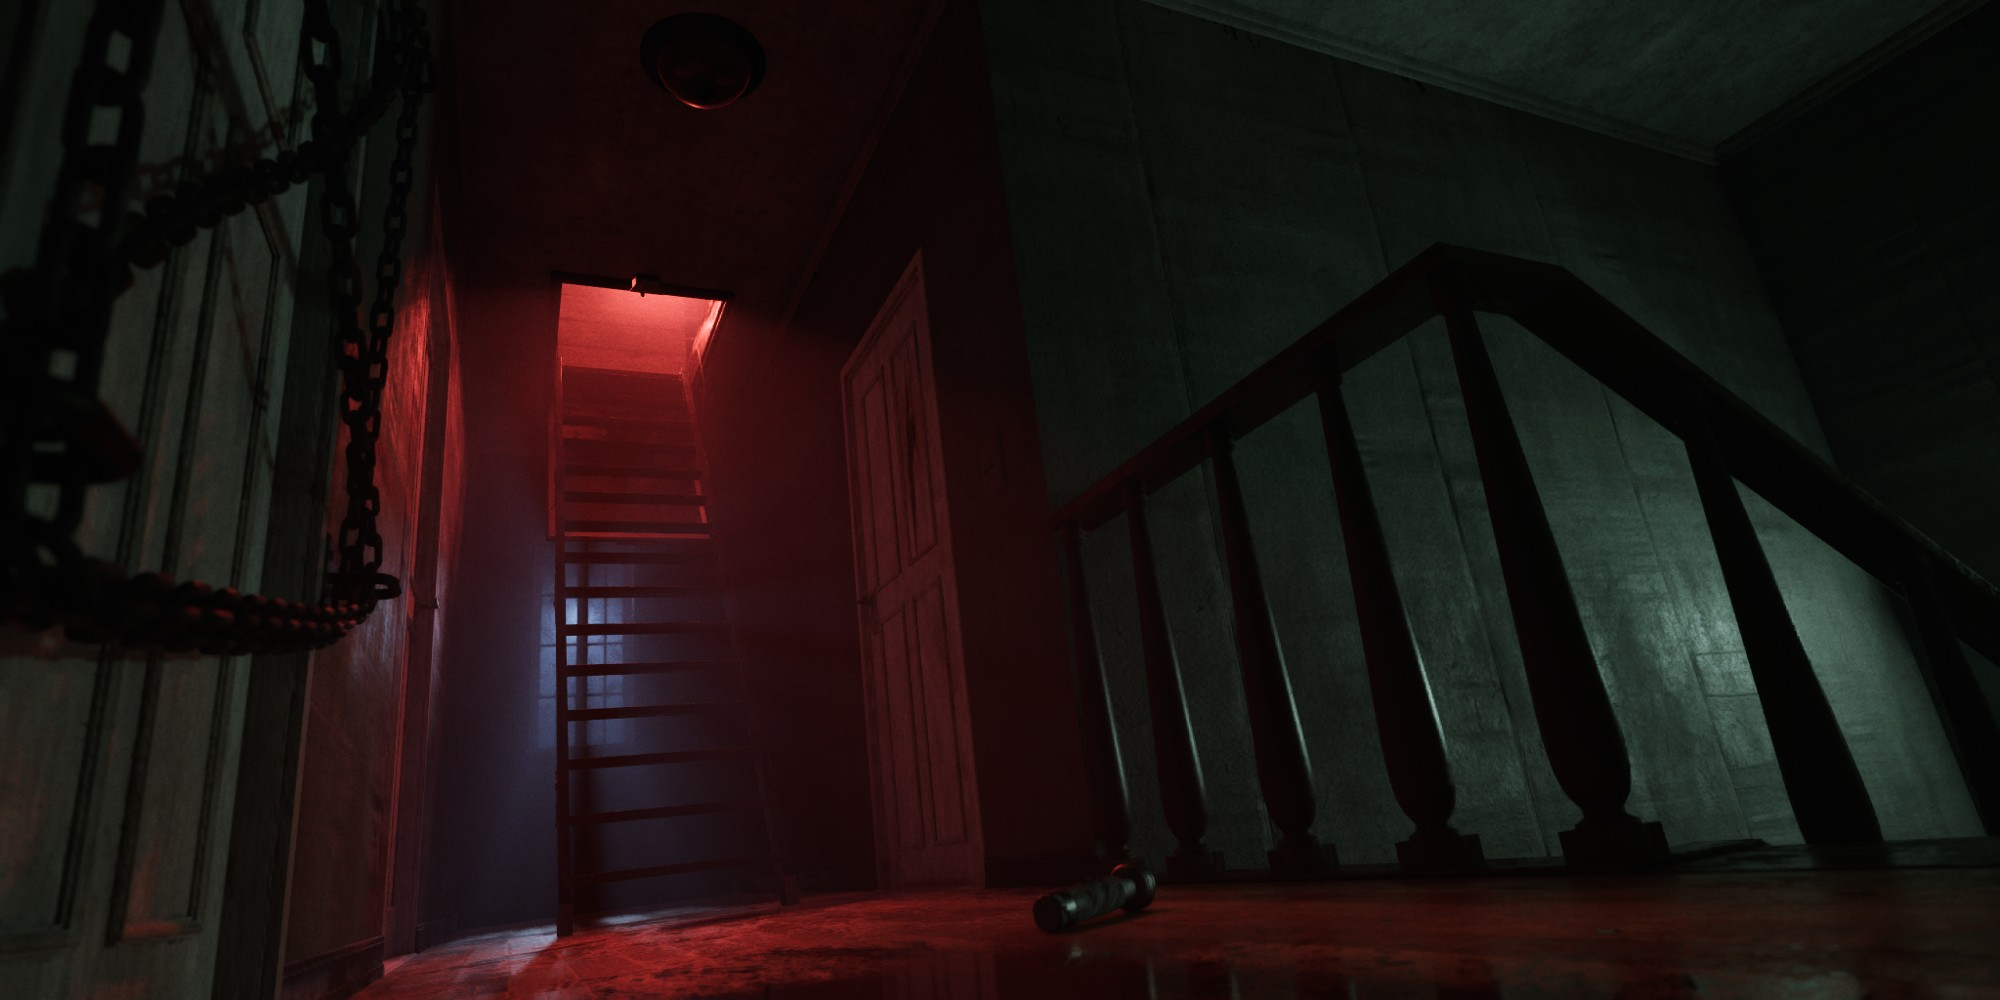
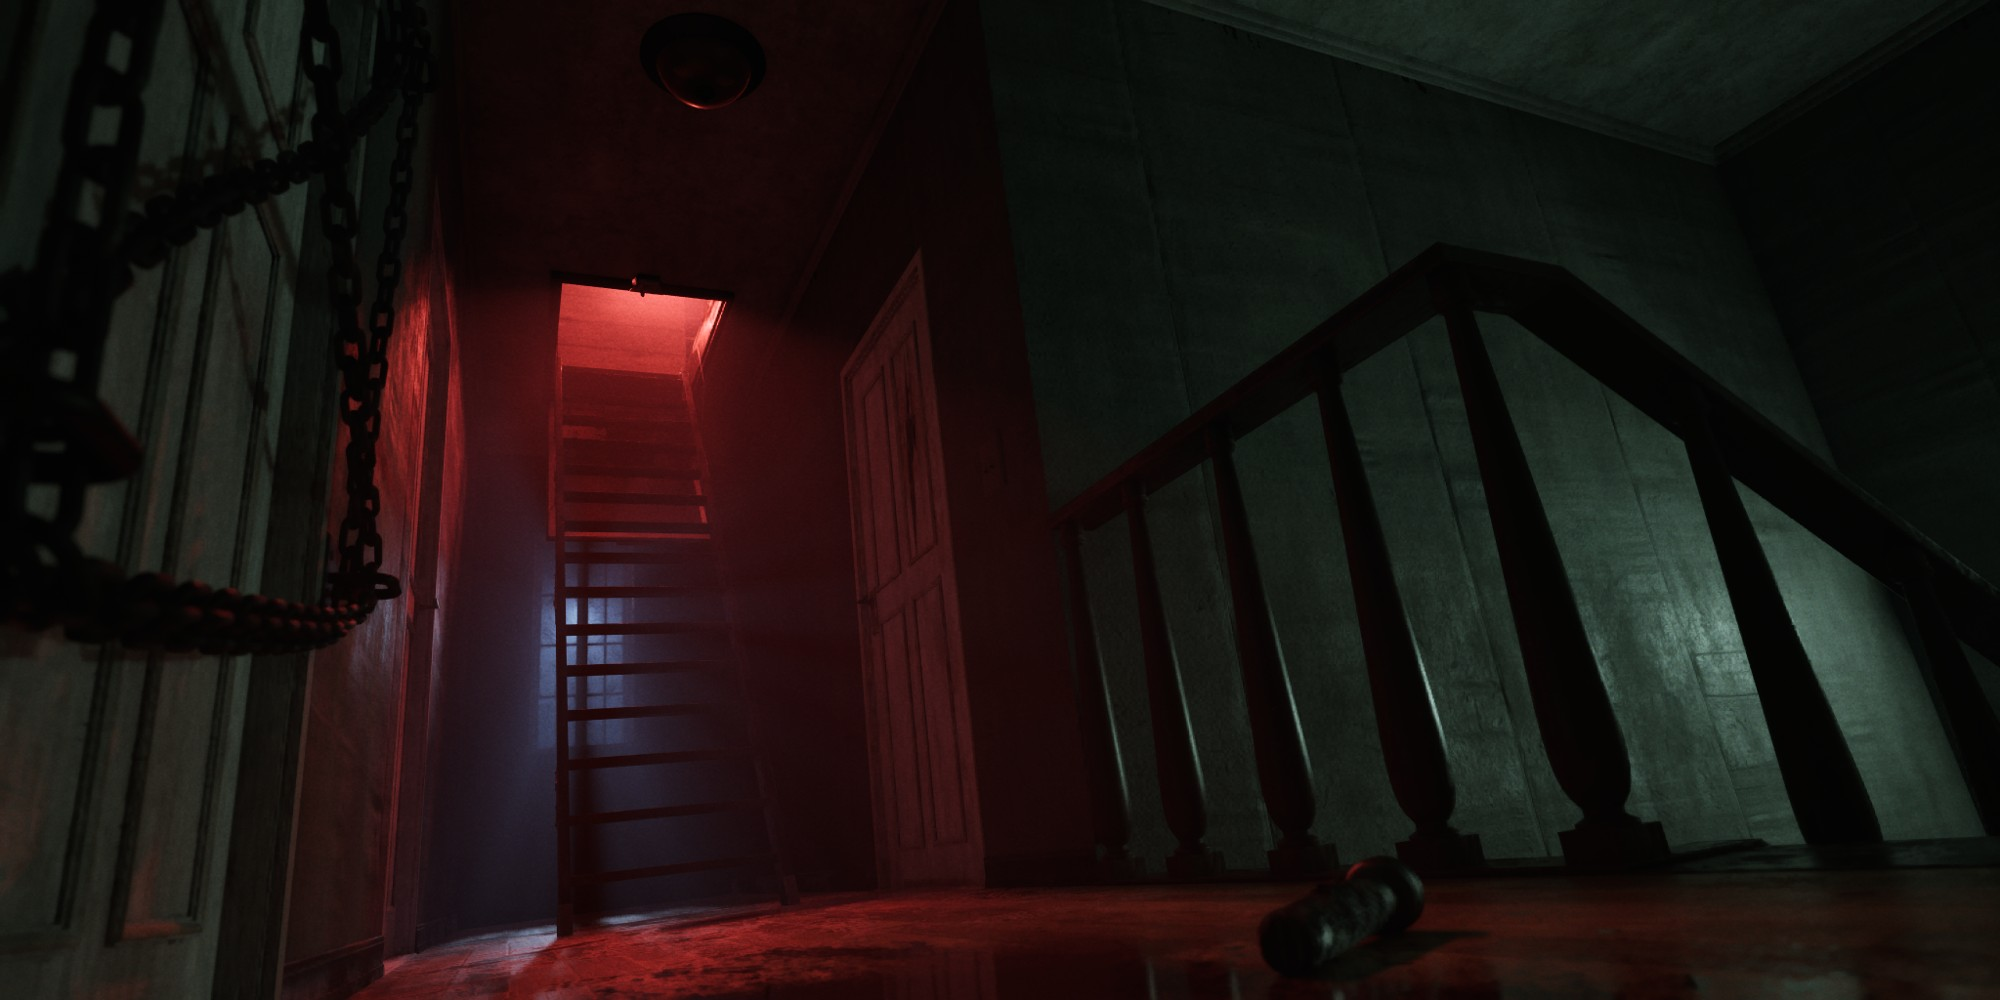
add images

Changed region(s): [[0.62, 0.868, 0.744, 1.0], [0.496, 0.868, 0.589, 0.961]]

diff --git a/index.html b/index.html
@@ -242,6 +242,23 @@
             <ul class="slideList">
               <li>
                 <a href="work-description.html">
+                  <img loading="lazy" src="img/Journey_Night_002.jpg" alt=""
+                /></a>
+              </li>
+              <li>
+                <a href="work-description.html"> <img src="img/Journey_Night_001.jpg" alt="" /></a>
+              </li>
+              <li>
+                <a href="work-description.html"> <img src="img/Journey_Night_003.jpg" alt="" /></a>
+              </li>
+            </ul>
+            <div class="progressBar"></div>
+            <div class="caption">Lighting | Journey</div>
+          </div>
+          <div class="grid-item ratio2_1 slideshow-card slider">
+            <ul class="slideList">
+              <li>
+                <a href="work-description.html">
                   <img loading="lazy" src="img/The_House_002.jpg" alt=""
                 /></a>
               </li>
@@ -307,23 +324,26 @@
               <div class="progressBar"></div>
               <div class="caption">VRChat | Seclusion</div>
             </div>
-            <div class="grid-item ratio4_3">
-              <a href="work-description.html"
-                ><img
-                  loading="lazy"
-                  src="img/Seaside_001.jpg"
-                  class="video-thumbnail"
-                  alt="" /><video
-                  class="hover-video"
-                  data-src="https://storage.rixiz.net/portfolio/video/seaside04.mov"
-                  preload="none"
-                  muted
-                  loop
-                  playsinline
-                  disablePictureInPicture
-                ></video
-              ></a>
-              <div class="caption">VRChat | Seaside</div>
+            <div class="grid-item ratio4_3 slideshow-card slider">
+              <ul class="slideList">
+                <li>
+                  <a href="work-description.html">
+                    <img loading="lazy" src="img/Journey_Foggy_002.jpg" alt=""
+                  /></a>
+                </li>
+                <li>
+                  <a href="work-description.html">
+                    <img src="img/Journey_Foggy_001.jpg" alt=""
+                  /></a>
+                </li>
+                <li>
+                  <a href="work-description.html">
+                    <img src="img/Journey_Foggy_003.jpg" alt=""
+                  /></a>
+                </li>
+              </ul>
+              <div class="progressBar"></div>
+              <div class="caption">Lighting | Journey / Foggy</div>
             </div>
           </div>
           <div class="grid-item ratio235_1 slideshow-card slider">
@@ -351,7 +371,7 @@
               <a href="work-description.html"
                 ><img loading="lazy" src="img/outimg12_comp.jpg" alt=""
               /></a>
-              <div class="caption">Lantern</div>
+              <div class="caption">Old Lantern</div>
             </div>
             <div class="grid-item ratio2_3">
               <a href="work-description.html"
